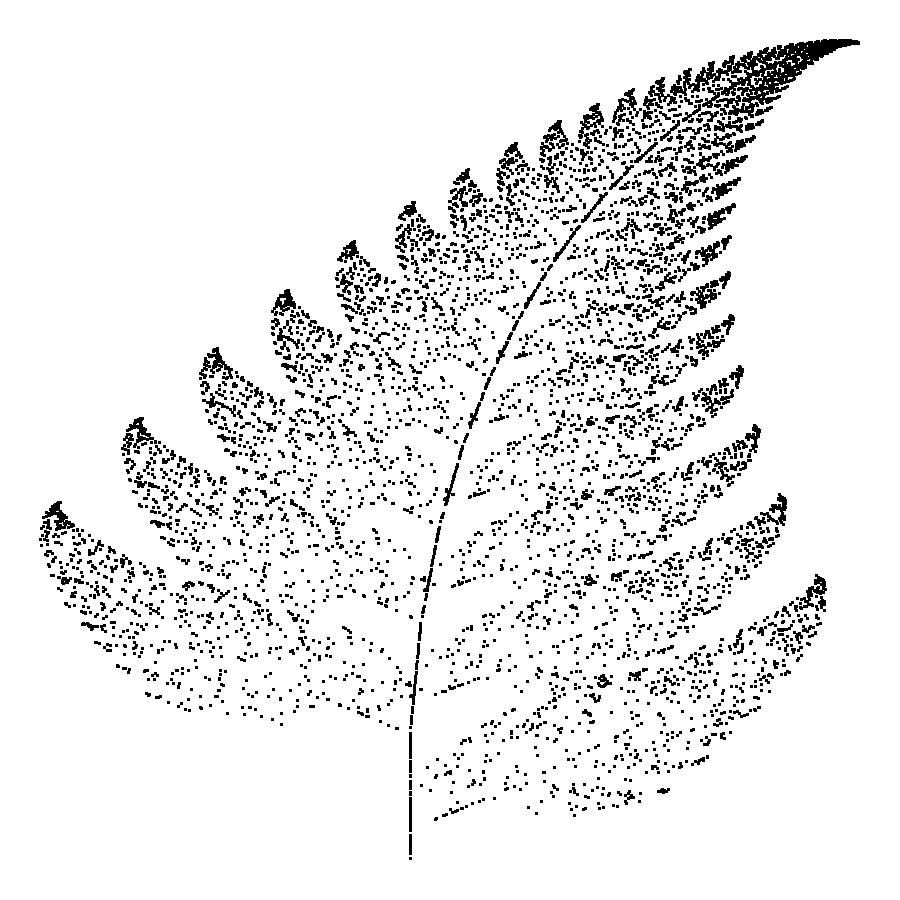
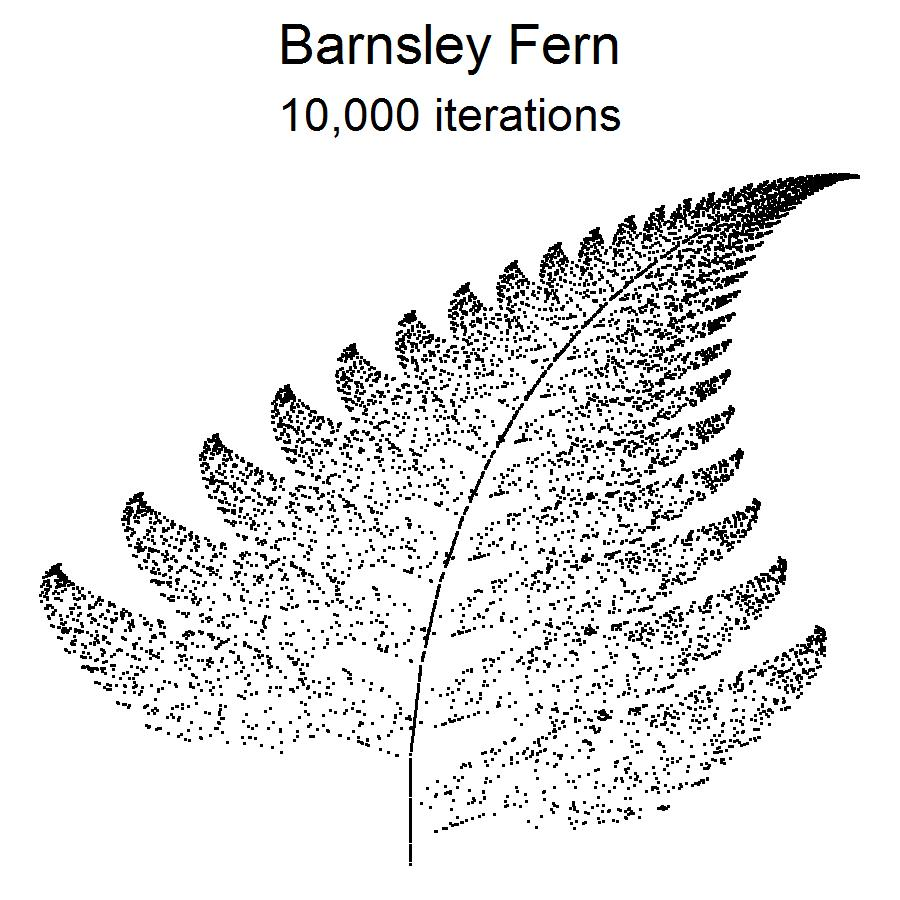
edit

Changed region(s): [[0.0311, 0.0, 0.9644, 0.9333]]

diff --git a/Script.md b/Script.md
@@ -324,7 +324,7 @@ Bonus: Barnsley Fern
 
 I want to conclude this script with an adaptation of the chaos game that generates the so-called Barnsley Fern (in my opinion one of the most beautiful fractals there is.). Note how each leaf of the fern is a fern itself.
 
-<img src="Plots/Barnsley%20Fern.jpeg" alt="Barnsley Fern" height="250" />
+<img src="Plots/Barnsley%20Fern%20sharp.jpeg" alt="Barnsley Fern" height="250" />
 
 The Function
 ------------
@@ -336,22 +336,29 @@ The function `generate_bf()` uses an adaptation of the chaos game to generate a 
 ``` r
 generate_bf <- function(n = 1e4, proba = c(0.01, 0.85, 0.07, 0.07), title = NULL, subtitle = NULL){
   
-  M1 <- matrix(c(0    , 0    , 0    , 0.16,
-                 0.85 , 0.04 , -0.04, 0.85,
-                 0.20 , -0.26, 0.23 , 0.22,
-                 -0.15, 0.28 , 0.26 , 0.24), byrow = T, ncol = 4)
+  M1 <- matrix(
+    c(0    , 0    , 0    , 0.16,
+      0.85 , 0.04 , -0.04, 0.85,
+      0.20 , -0.26, 0.23 , 0.22,
+      -0.15, 0.28 , 0.26 , 0.24),
+    byrow = TRUE, 
+    ncol = 4
+    )
 
-  M2 <- matrix(c(0, 0   ,
-                 0, 1.60,
-                 0, 1.60,
-                 0, 0.44), byrow = T, ncol = 2)
+  M2 <- matrix(
+    c(0, 0   ,
+      0, 1.60,
+      0, 1.60,
+      0, 0.44),
+    byrow = TRUE, 
+    ncol = 2)
   
-  points <- data.frame(x = NA, y = NA)
+  points <- data.frame(x = numeric(0), y = numeric(0))
   
-  point <- c(0,0)
+  point <- c(0, 0)
   
   
-  for(i in 1:n){
+  for(i in 1 : n){
     
     k           <- sample(1 : 4, size = 1, prob = proba)
     point       <- matrix(M1[k, ], byrow = T, ncol = 2) %*% point + M2[k, ]
@@ -376,7 +383,7 @@ generate_bf <- function(n = 1e4, proba = c(0.01, 0.85, 0.07, 0.07), title = NULL
 With its parameters left to their default value, the function generates Barnsley Fern.
 
 ``` r
-generate_bf()
+generate_bf(title = "Barnsley Fern", subtitle = "10,000 iterations")
 ```
 
 <img src="Script_files/figure-markdown_github/bf default-1.png" style="display: block; margin: auto;" />
@@ -436,4 +443,4 @@ for(i in 1:4){
 Summary
 =======
 
-I designed three functions `generate_sg()`, `generate_fractal()` and `generate_bf()` that respectively generate the Sierpinski Gasket, fractals with any number of vertices and the Barnsley Fern. Each function has parameters that allow us to tweak the shape of and pattern in the obtained fractal. Most important is the argument `p` of the functions `generate_sg` and `generate_fractal` which determines whether the figure is a fractal with a clear pattern or a bunch of points located in a chaotic manner.
+I designed three functions `generate_sg()`, `generate_fractal()` and `generate_bf()` that respectively generate the Sierpinski Gasket, fractals with any number of vertices and the Barnsley Fern. Each function has parameters that allow us to tweak the shape and pattern of the obtained fractal. Most important is the argument `p` of the functions `generate_sg` and `generate_fractal` which determines whether the figure is a fractal with a clear pattern or a chaotic bunch of points.
